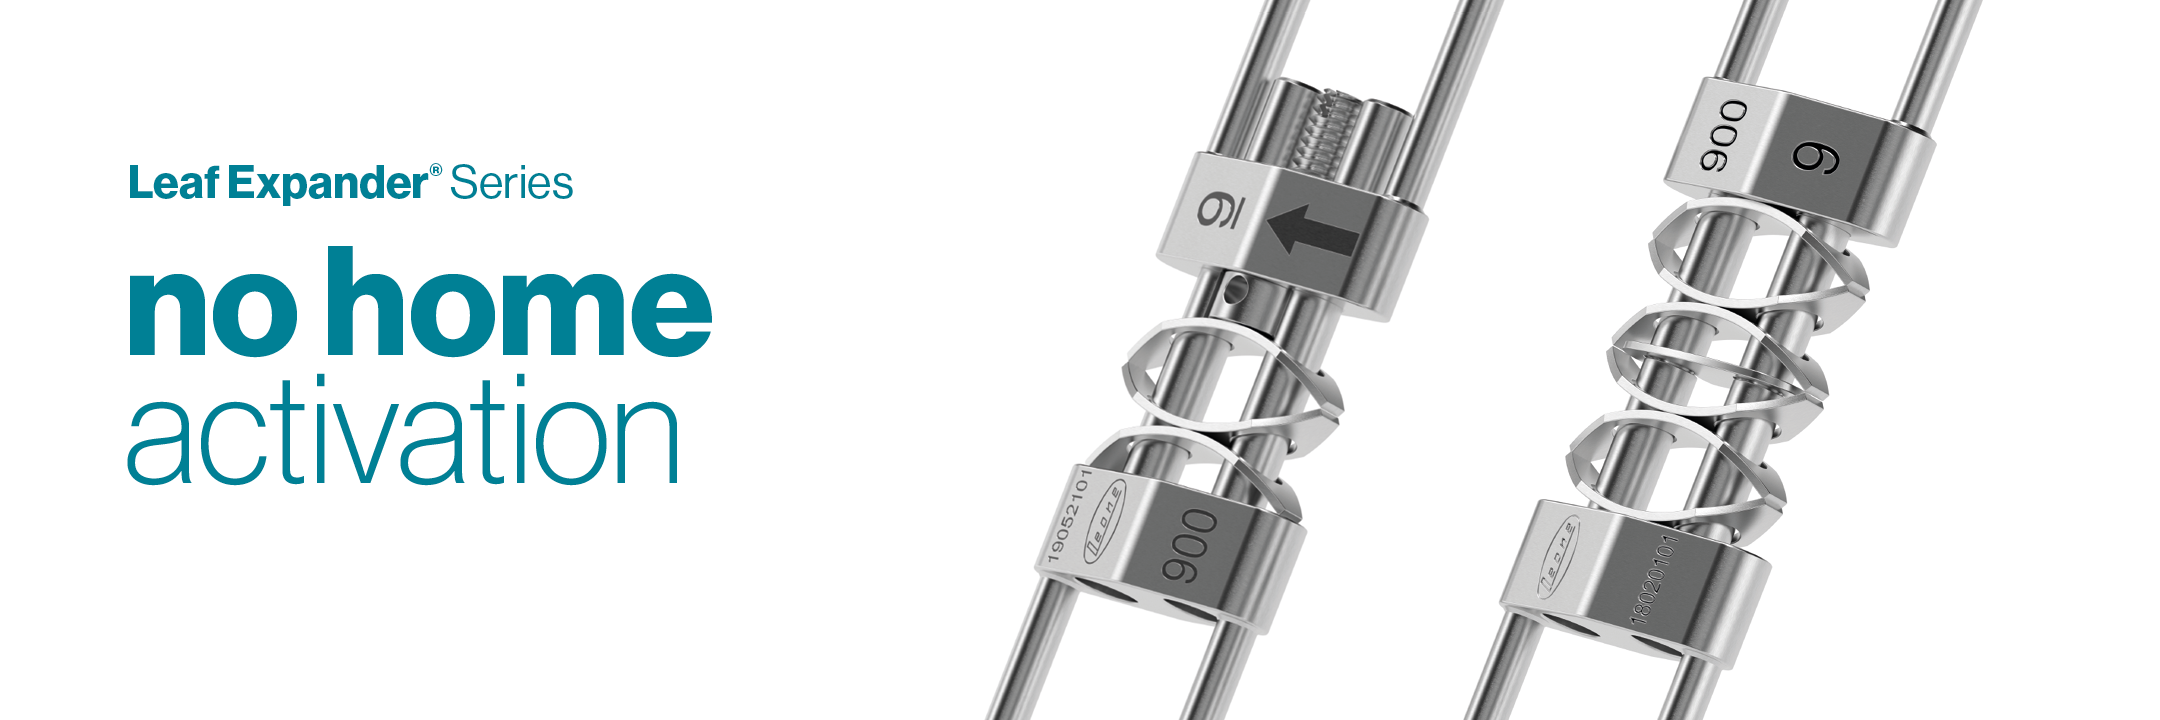
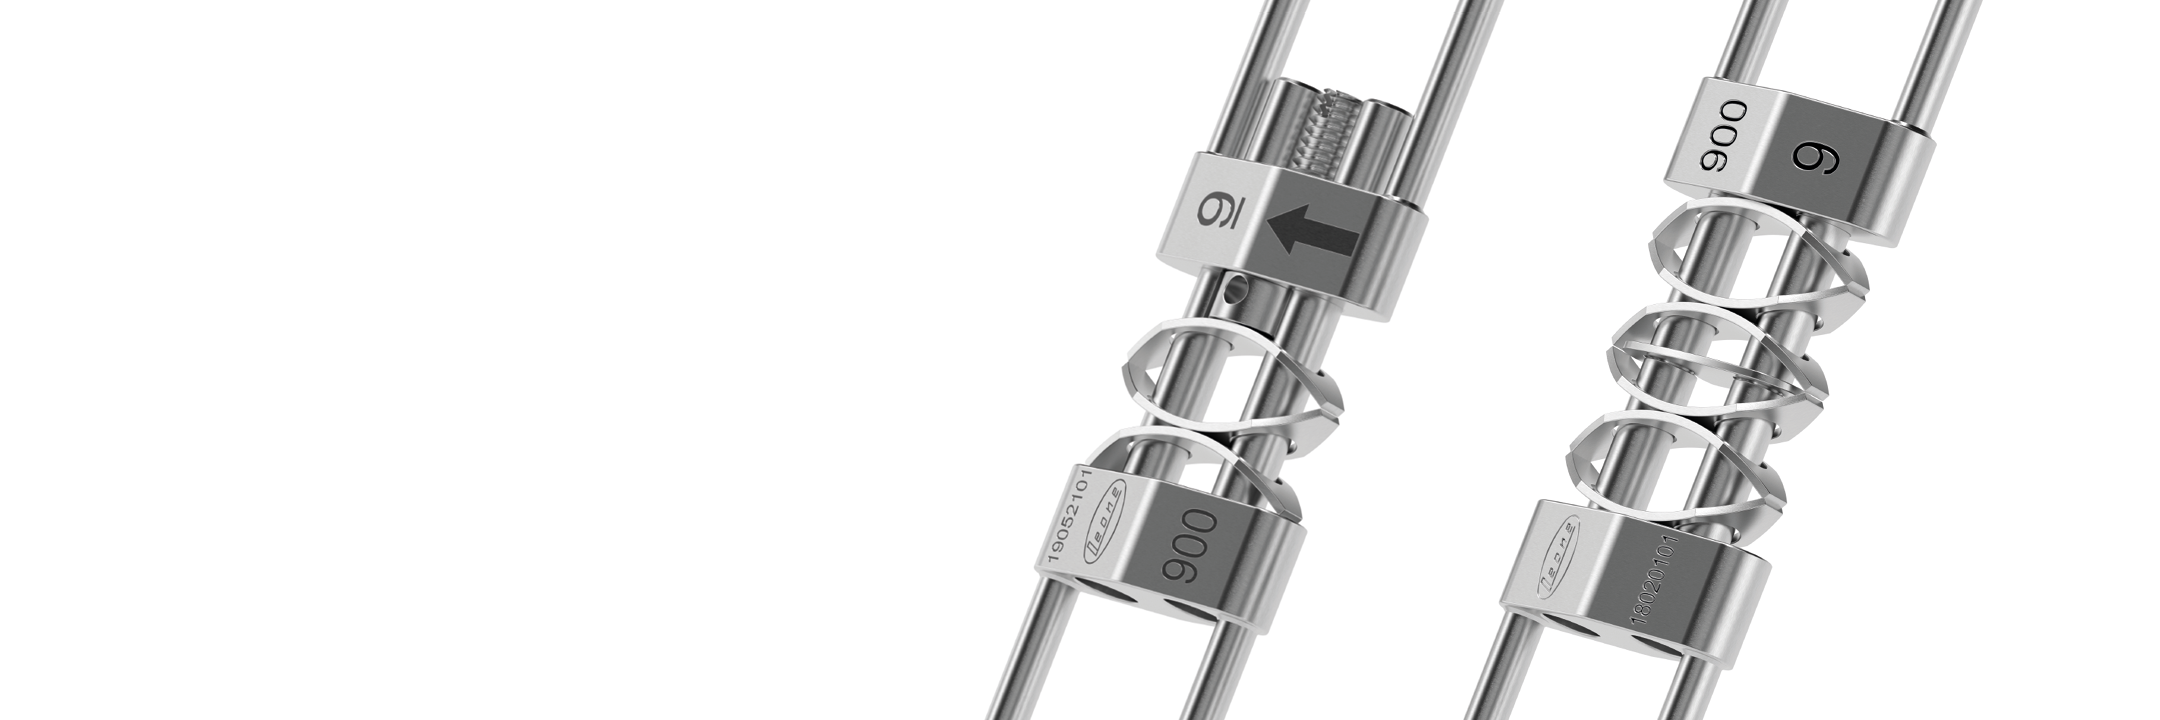
feat: various resolutions

Changed region(s): [[0.062, 0.3361, 0.3412, 0.5194], [0.062, 0.5194, 0.3412, 0.6722], [0.062, 0.2139, 0.2792, 0.275]]

diff --git a/src/app/page.tsx b/src/app/page.tsx
@@ -2,8 +2,14 @@
 
 import { Carousel } from "react-bootstrap";
 import Leaf from "../../public/Leaf 2.png";
+import LeafTablet from "../../public/LeafTablet.png";
+import LeafMobile from "../../public/Leaf2Mobile.png";
 import Mad from "../../public/MAD.png";
+import MadTablet from "../../public/MadTablet.png";
+import MadMobile from "../../public/MADmobile.png";
 import Software from "../../public/Software.png";
+import SoftwareTablet from "../../public/SoftwareTablet.png";
+import SoftwareMobile from "../../public/SoftwareMobile.png";
 import homeOrtho from "../../public/home-ortho.png";
 import homeMad from "../../public/home-mad.png";
 import homePedo from "../../public/home-pedo.png";
@@ -38,27 +44,112 @@ export default function Home() {
     <div>
       <Carousel fade data-bs-theme="dark">
         <Carousel.Item>
-          <Image src={Mad} alt="mad"></Image>
+          <div className="relative">
+            {/* desktop */}
+            <Image src={Mad} alt="mad" className="w-full hidden lg:block" />
+            {/* tablet */}
+            <Image
+              src={MadTablet}
+              alt="software"
+              className="w-full hidden md:block lg:hidden"
+            />
+            {/* mobile */}
+            <Image
+              src={MadMobile}
+              alt="software-mobile"
+              className="w-full block md:hidden"
+            />
+            <div className="mad-slide absolute left-28 top-[20%] md:top-1/2 transform -translate-y-1/2">
+              <h2 className="font-bold text-5xl md:text-6xl lg:text-9xl">
+                M.A.D.
+              </h2>
+              <h3 className="text-xl md:text-5xl lg:text-6xl">
+                Anti snoring devices
+              </h3>
+            </div>
+          </div>
         </Carousel.Item>
         <Carousel.Item>
-          <Link href={`https://leafexpander.com/`} target="_blank">
-            <Image src={Leaf} alt="Leaf"></Image>
+          <Link
+            href="https://leafexpander.com/"
+            target="_blank"
+            rel="noopener noreferrer"
+          >
+            <div className="relative">
+              {/* desktop */}
+              <Image src={Leaf} alt="mad" className="w-full hidden lg:block" />
+              {/* tablet */}
+              <Image
+                src={LeafTablet}
+                alt="software"
+                className="w-full hidden md:block lg:hidden"
+              />
+              {/* mobile */}
+              <Image
+                src={LeafMobile}
+                alt="software-mobile"
+                className="w-full block md:hidden"
+              />
+              <div className="absolute left-10 lg:left-28 top-[30%] md:top-1/2  transform -translate-y-1/2">
+                <h3 className="leaf-slide text-xl md:text-4xl lg:text-4xl">
+                  <strong>Leaf Expander</strong>&reg; <span>Series</span>
+                </h3>
+                <br />
+                <h2 className="leaf-slide text-4xl md:text-6xl lg:text-9xl">
+                  <strong>no home</strong>
+                  <br />
+                  <span>activation</span>
+                </h2>
+              </div>
+            </div>
           </Link>
         </Carousel.Item>
         <Carousel.Item>
-          <Link href={`https://www.3dleone.it/`} target="_blank">
-            <Image src={Software} alt="software"></Image>
+          <Link
+            href="https://www.3dleone.it/"
+            target="_blank"
+            rel="noopener noreferrer"
+          >
+            <div className="relative">
+              {/* desktop */}
+              <Image
+                src={Software}
+                alt="software"
+                className="w-full hidden lg:block"
+              />
+              {/* tablet */}
+              <Image
+                src={SoftwareTablet}
+                alt="software"
+                className="w-full hidden md:block lg:hidden"
+              />
+              {/* mobile */}
+              <Image
+                src={SoftwareMobile}
+                alt="software-mobile"
+                className="w-full block md:hidden"
+              />
+              <div className="absolute flex justify-center lg:justify-normal w-full lg:left-28 top-1/2 transform -translate-y-1/2 text-white">
+                <h2 className="font-bold xl:pb-8 text-4xl md:text-4xl lg:text-4xl">
+                  Software
+                  <br />
+                  <span className="font-bold text-4xl md:text-6xl lg:text-8xl">
+                    3DLeone Designer
+                  </span>
+                </h2>
+              </div>
+            </div>
           </Link>
         </Carousel.Item>
       </Carousel>
       <div className="container flex justify-center">
-        <p className="small-container">
+        <p className="small-container py-5">
           At Leone and LeoneAmerica, quality and customer service are paramount.
           These two goals drive the day-to-day functioning of both campuses and
           are considered at each step of the way
         </p>
       </div>
-      <div className="products-home-container flex container mx:auto justify-between">
+      <div className="products-home-container flex container mx:auto justify-center lg:justify-between">
         <HomeCard items={homeCards} />
       </div>
     </div>

diff --git a/src/app/style.css b/src/app/style.css
@@ -1,12 +1,34 @@
+/* Mobile first: 1/1 aspect ratio */
 .carousel img {
   pointer-events: none;
-  aspect-ratio: 3 / 1;
+  aspect-ratio: 1 / 1;
   object-fit: cover;
 }
 
+/* Tablet: 2/1 aspect ratio for screens 768px and wider */
+@media (min-width: 768px) {
+  .carousel img {
+    aspect-ratio: 2 / 1;
+  }
+}
+
+/* Desktop: 3/1 aspect ratio for screens 1024px and wider */
+@media (min-width: 1024px) {
+  .carousel img {
+    aspect-ratio: 3 / 1;
+  }
+}
 .small-container {
   max-width: 600px;
   text-align: center;
   font-size: 20px;
   padding: var(--unita-base) 0;
+}
+
+.mad-slide {
+  color: var(--colore-primario);
+}
+
+.leaf-slide {
+  color: #008095;
 }
